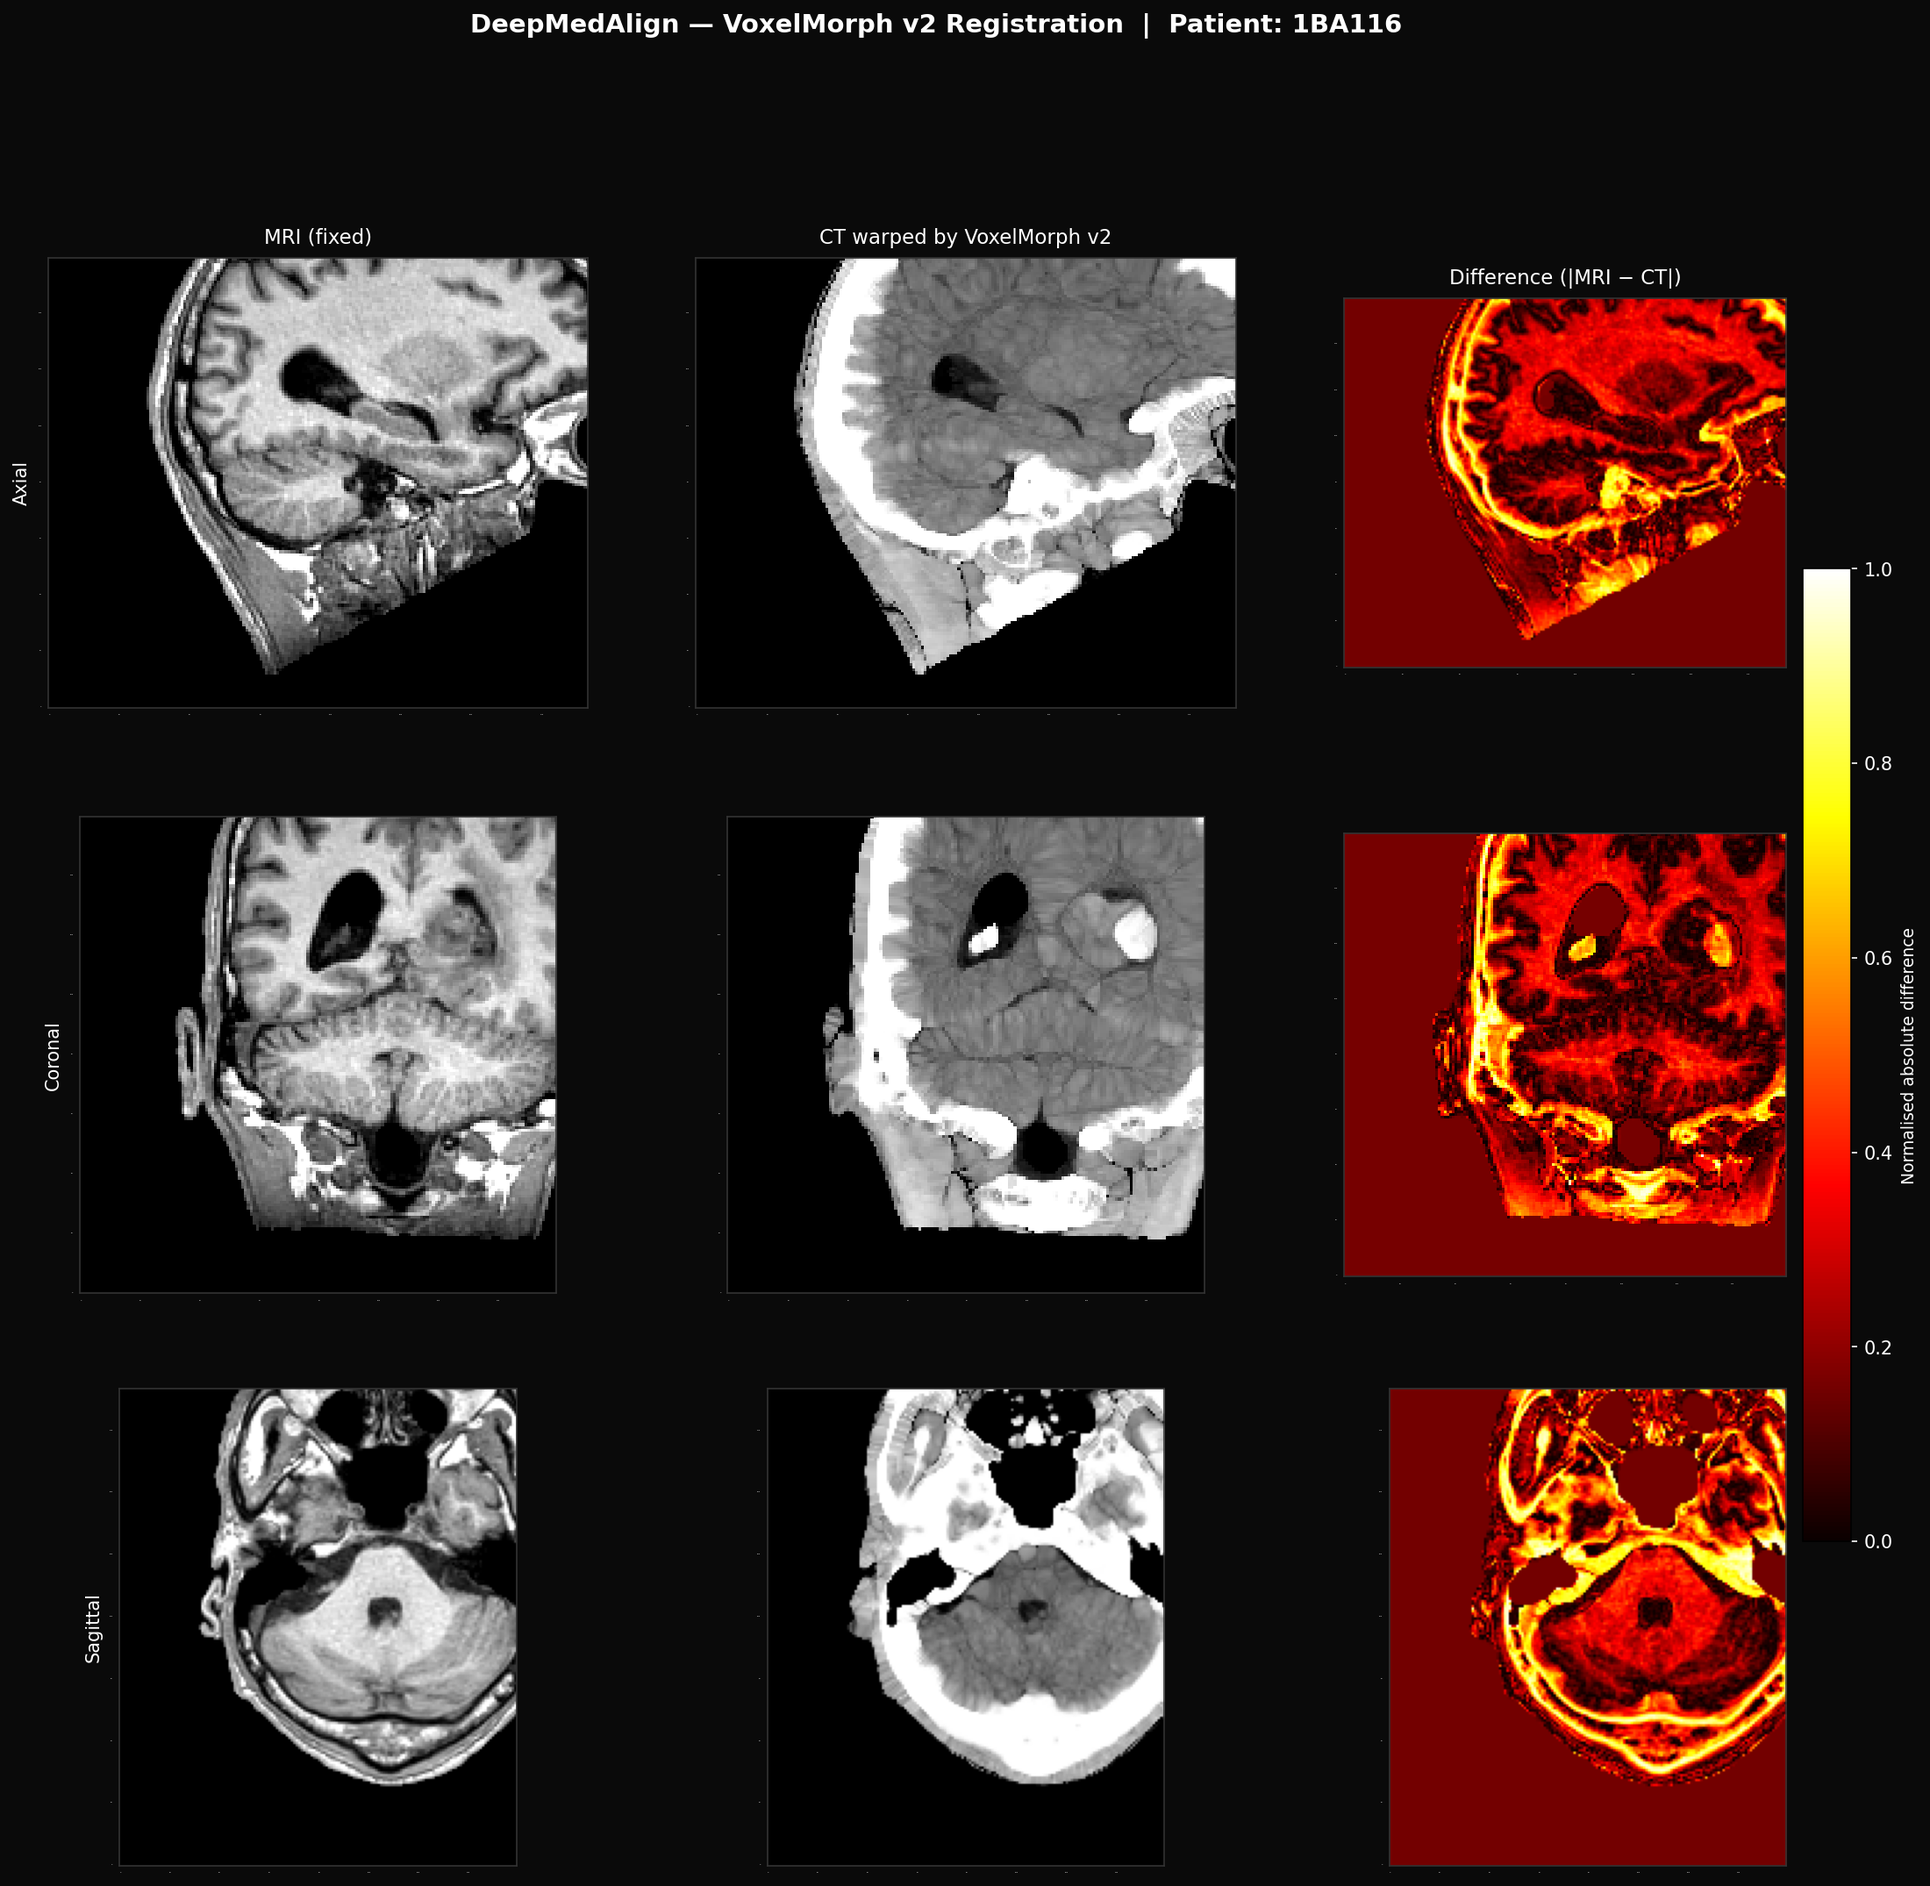
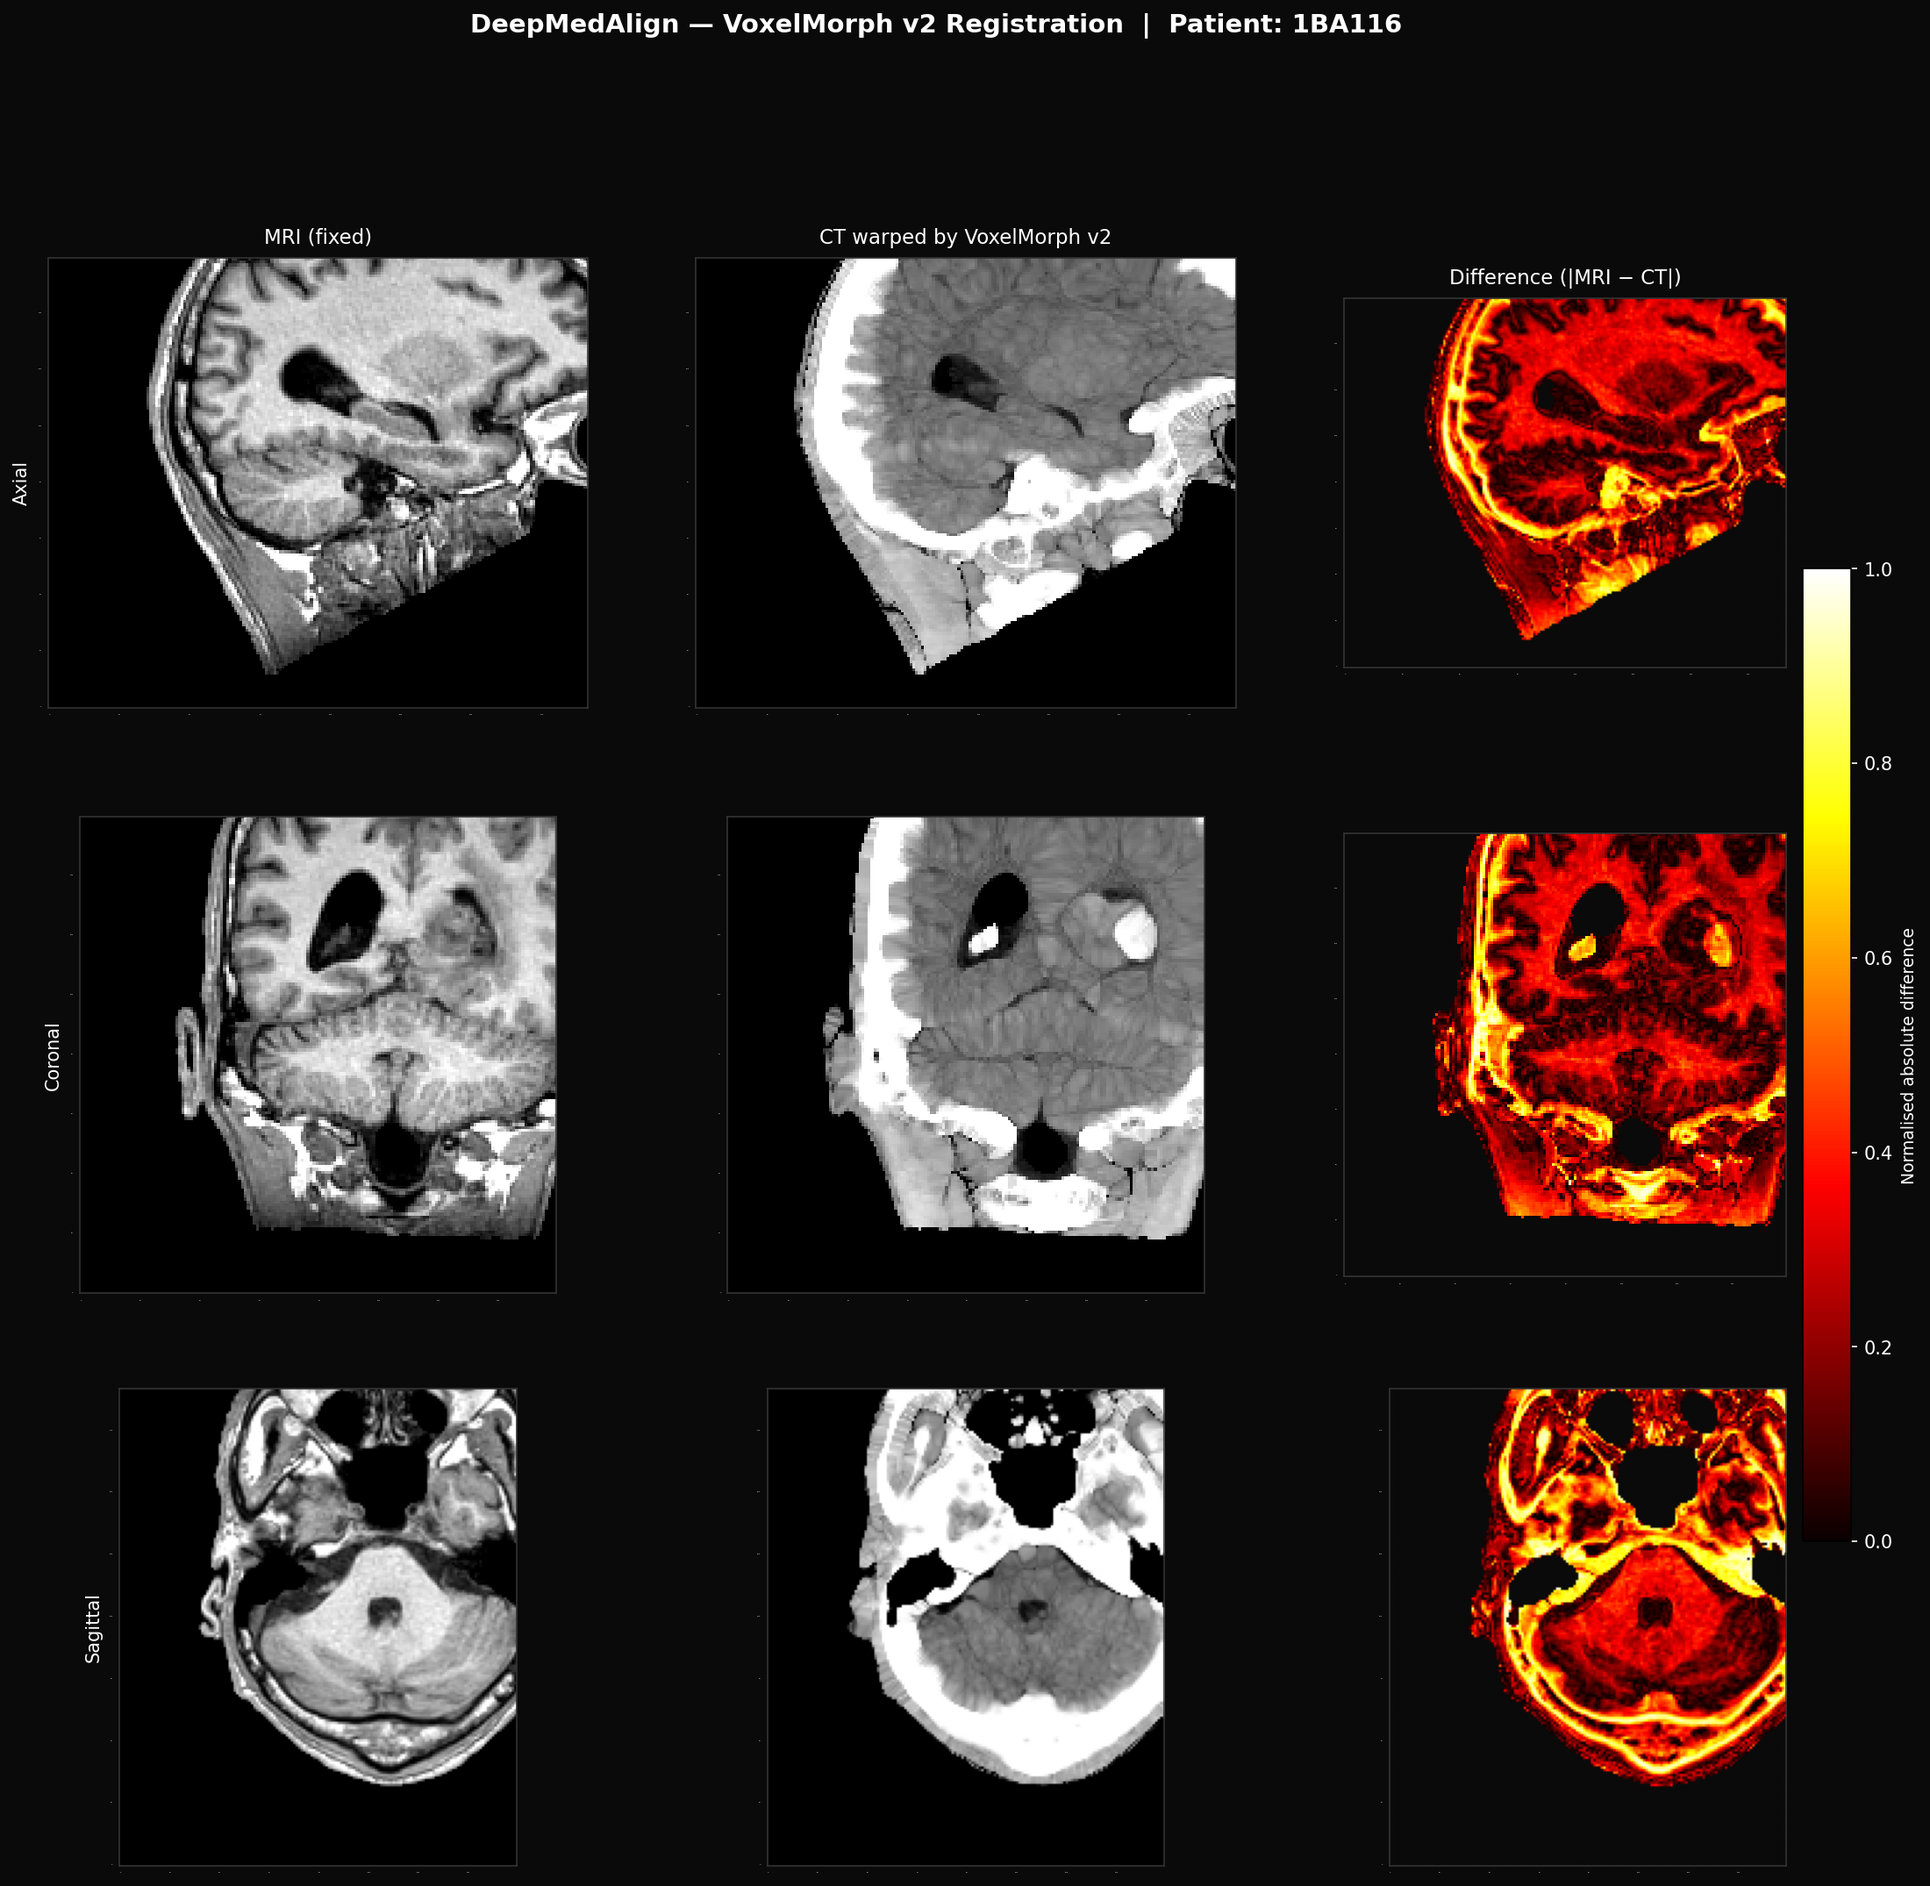
style: update voxelmorph_diffmap background to clean pitch-black outside skull

diff --git a/scripts/visualize_dl_results.py b/scripts/visualize_dl_results.py
@@ -131,10 +131,17 @@ def generate_figure(mr: np.ndarray, ct_warped: np.ndarray,
         dmax   = diff_sl.max() if diff_sl.max() > 0 else 1.0
         diff_n = diff_sl / dmax
 
+        # Mask background air (where MRI is near zero) to black
+        bg_mask = (mr_sl < 0.02)
+        diff_masked = np.ma.masked_where(bg_mask, diff_n)
+        
+        cmap = plt.cm.hot.copy()
+        cmap.set_bad(color="#0A0A0A")  # Background air matches figure background (pitch black)
+
         axes[row, 0].imshow(mr_n.T,   cmap="gray", origin="lower", aspect="equal")
         axes[row, 1].imshow(ct_n.T,   cmap="gray", origin="lower", aspect="equal")
         last_im = axes[row, 2].imshow(
-            diff_n.T, cmap="hot", origin="lower", aspect="equal", vmin=0, vmax=1,
+            diff_masked.T, cmap=cmap, origin="lower", aspect="equal", vmin=0, vmax=1,
         )
 
         if row == 0:
